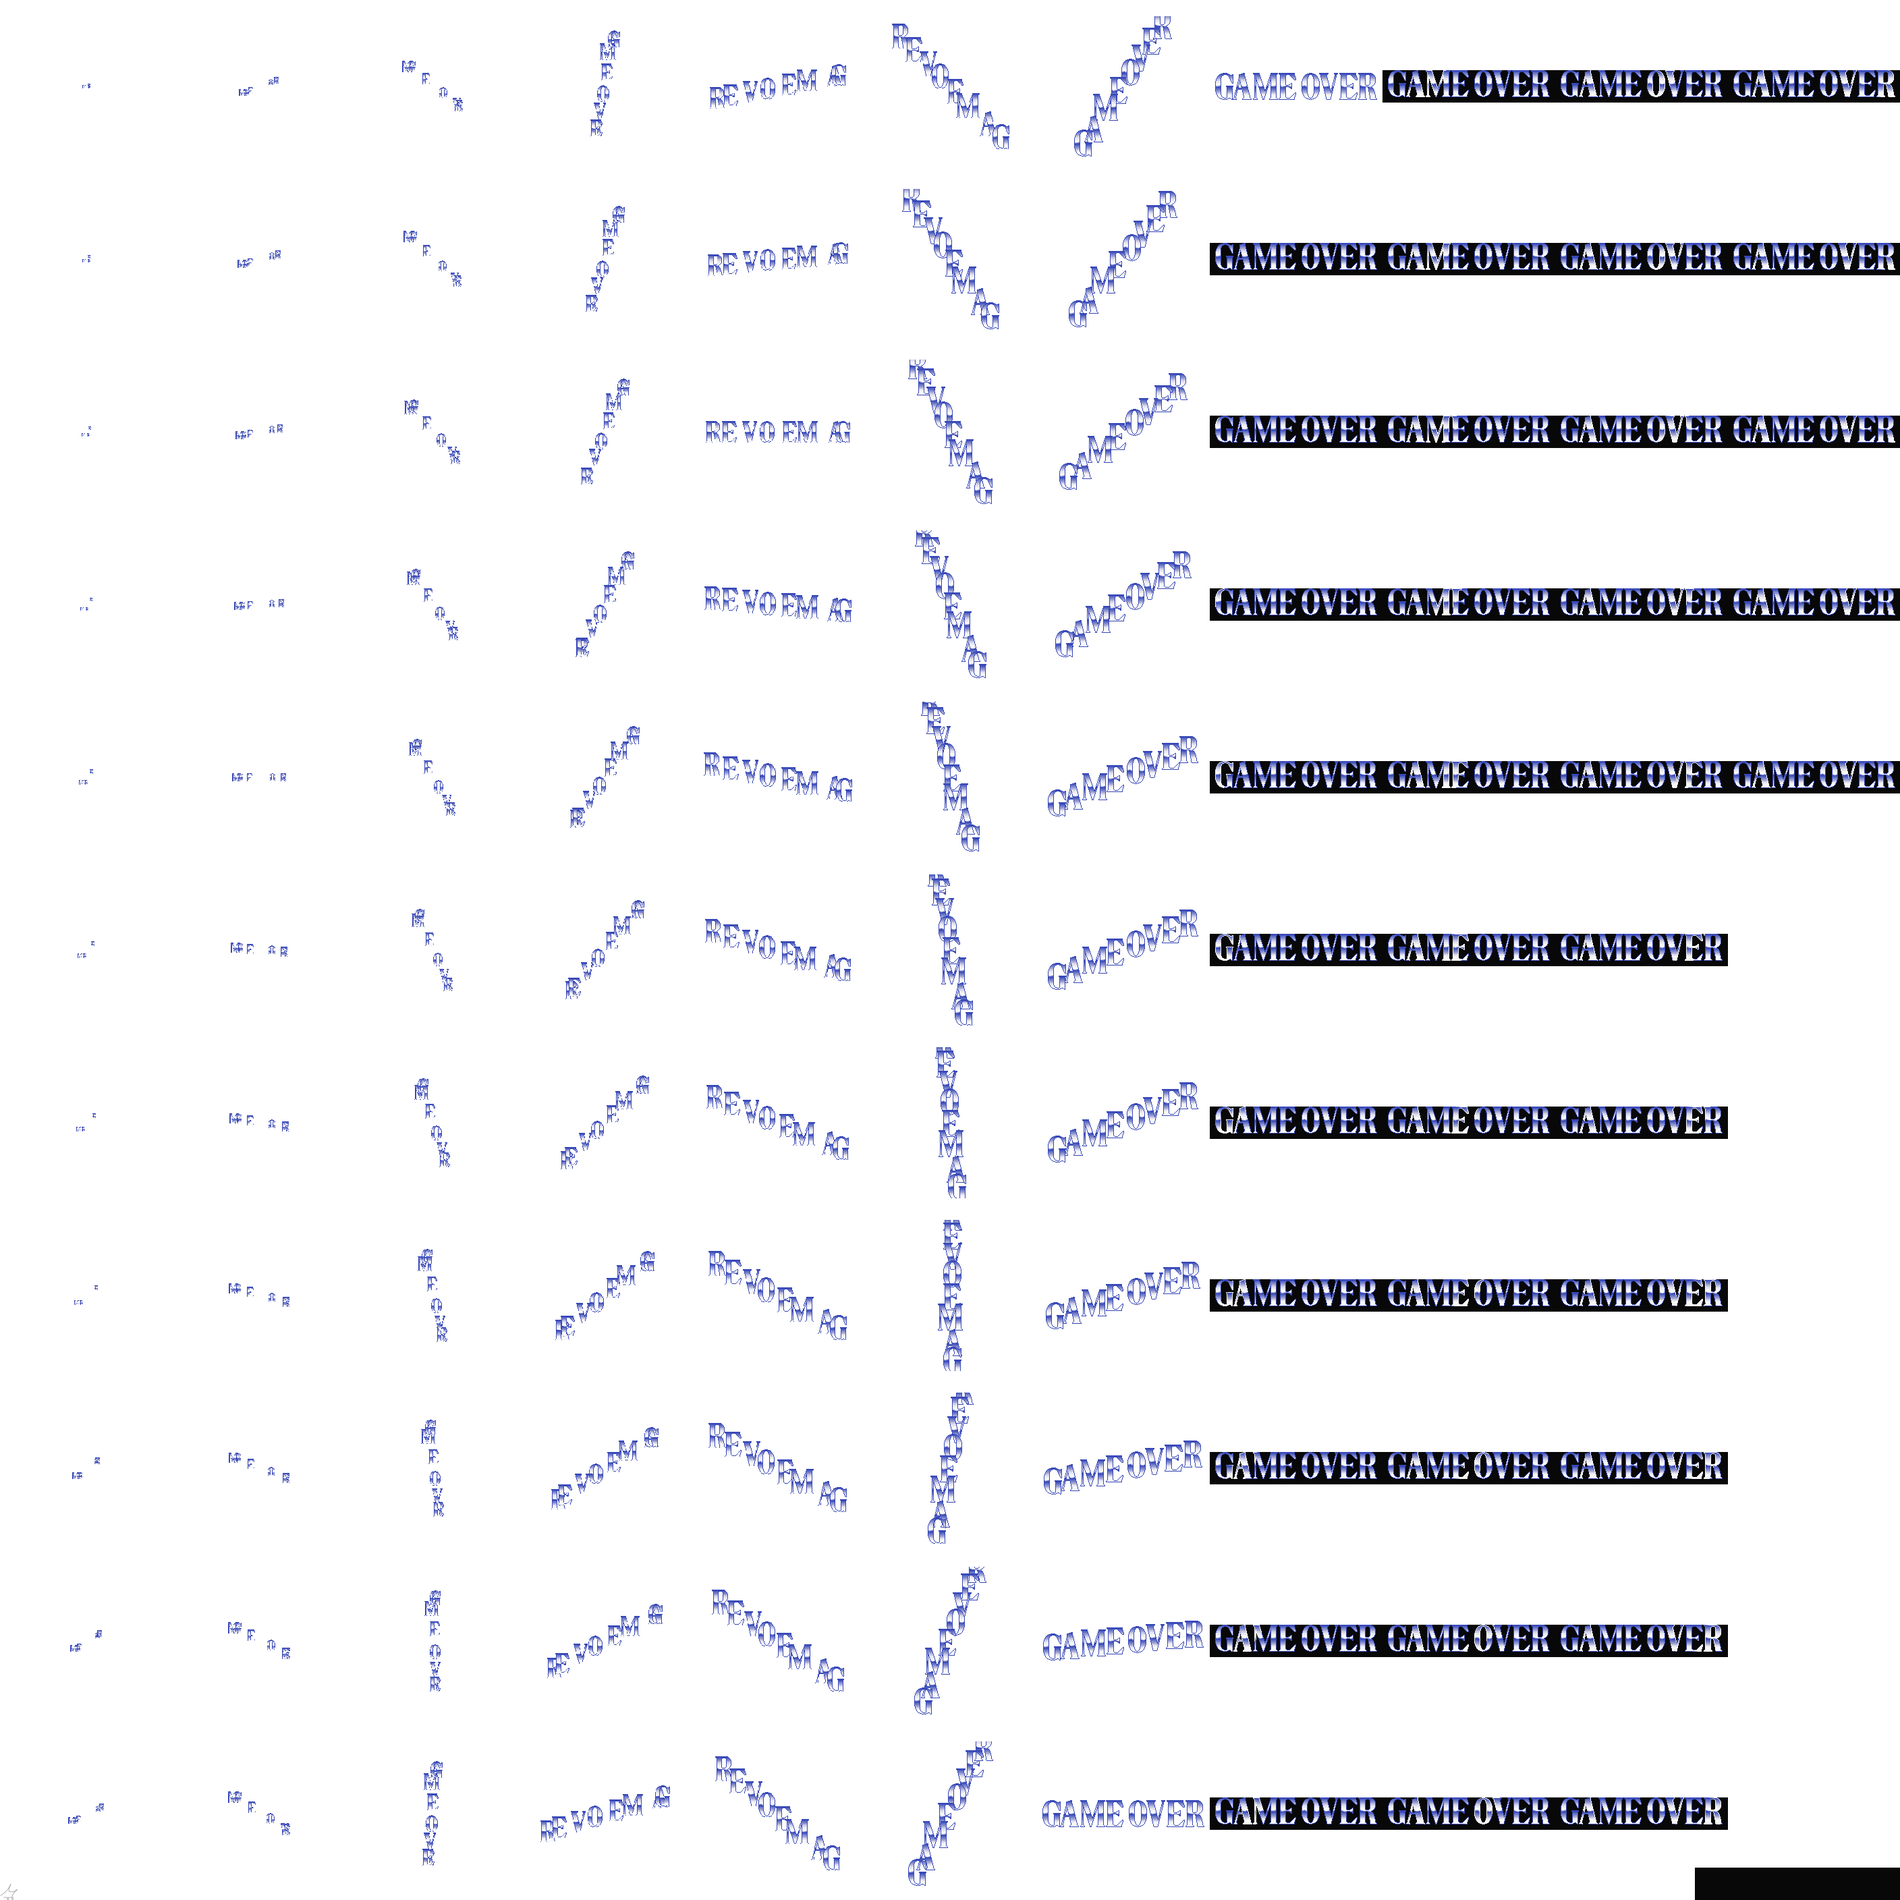
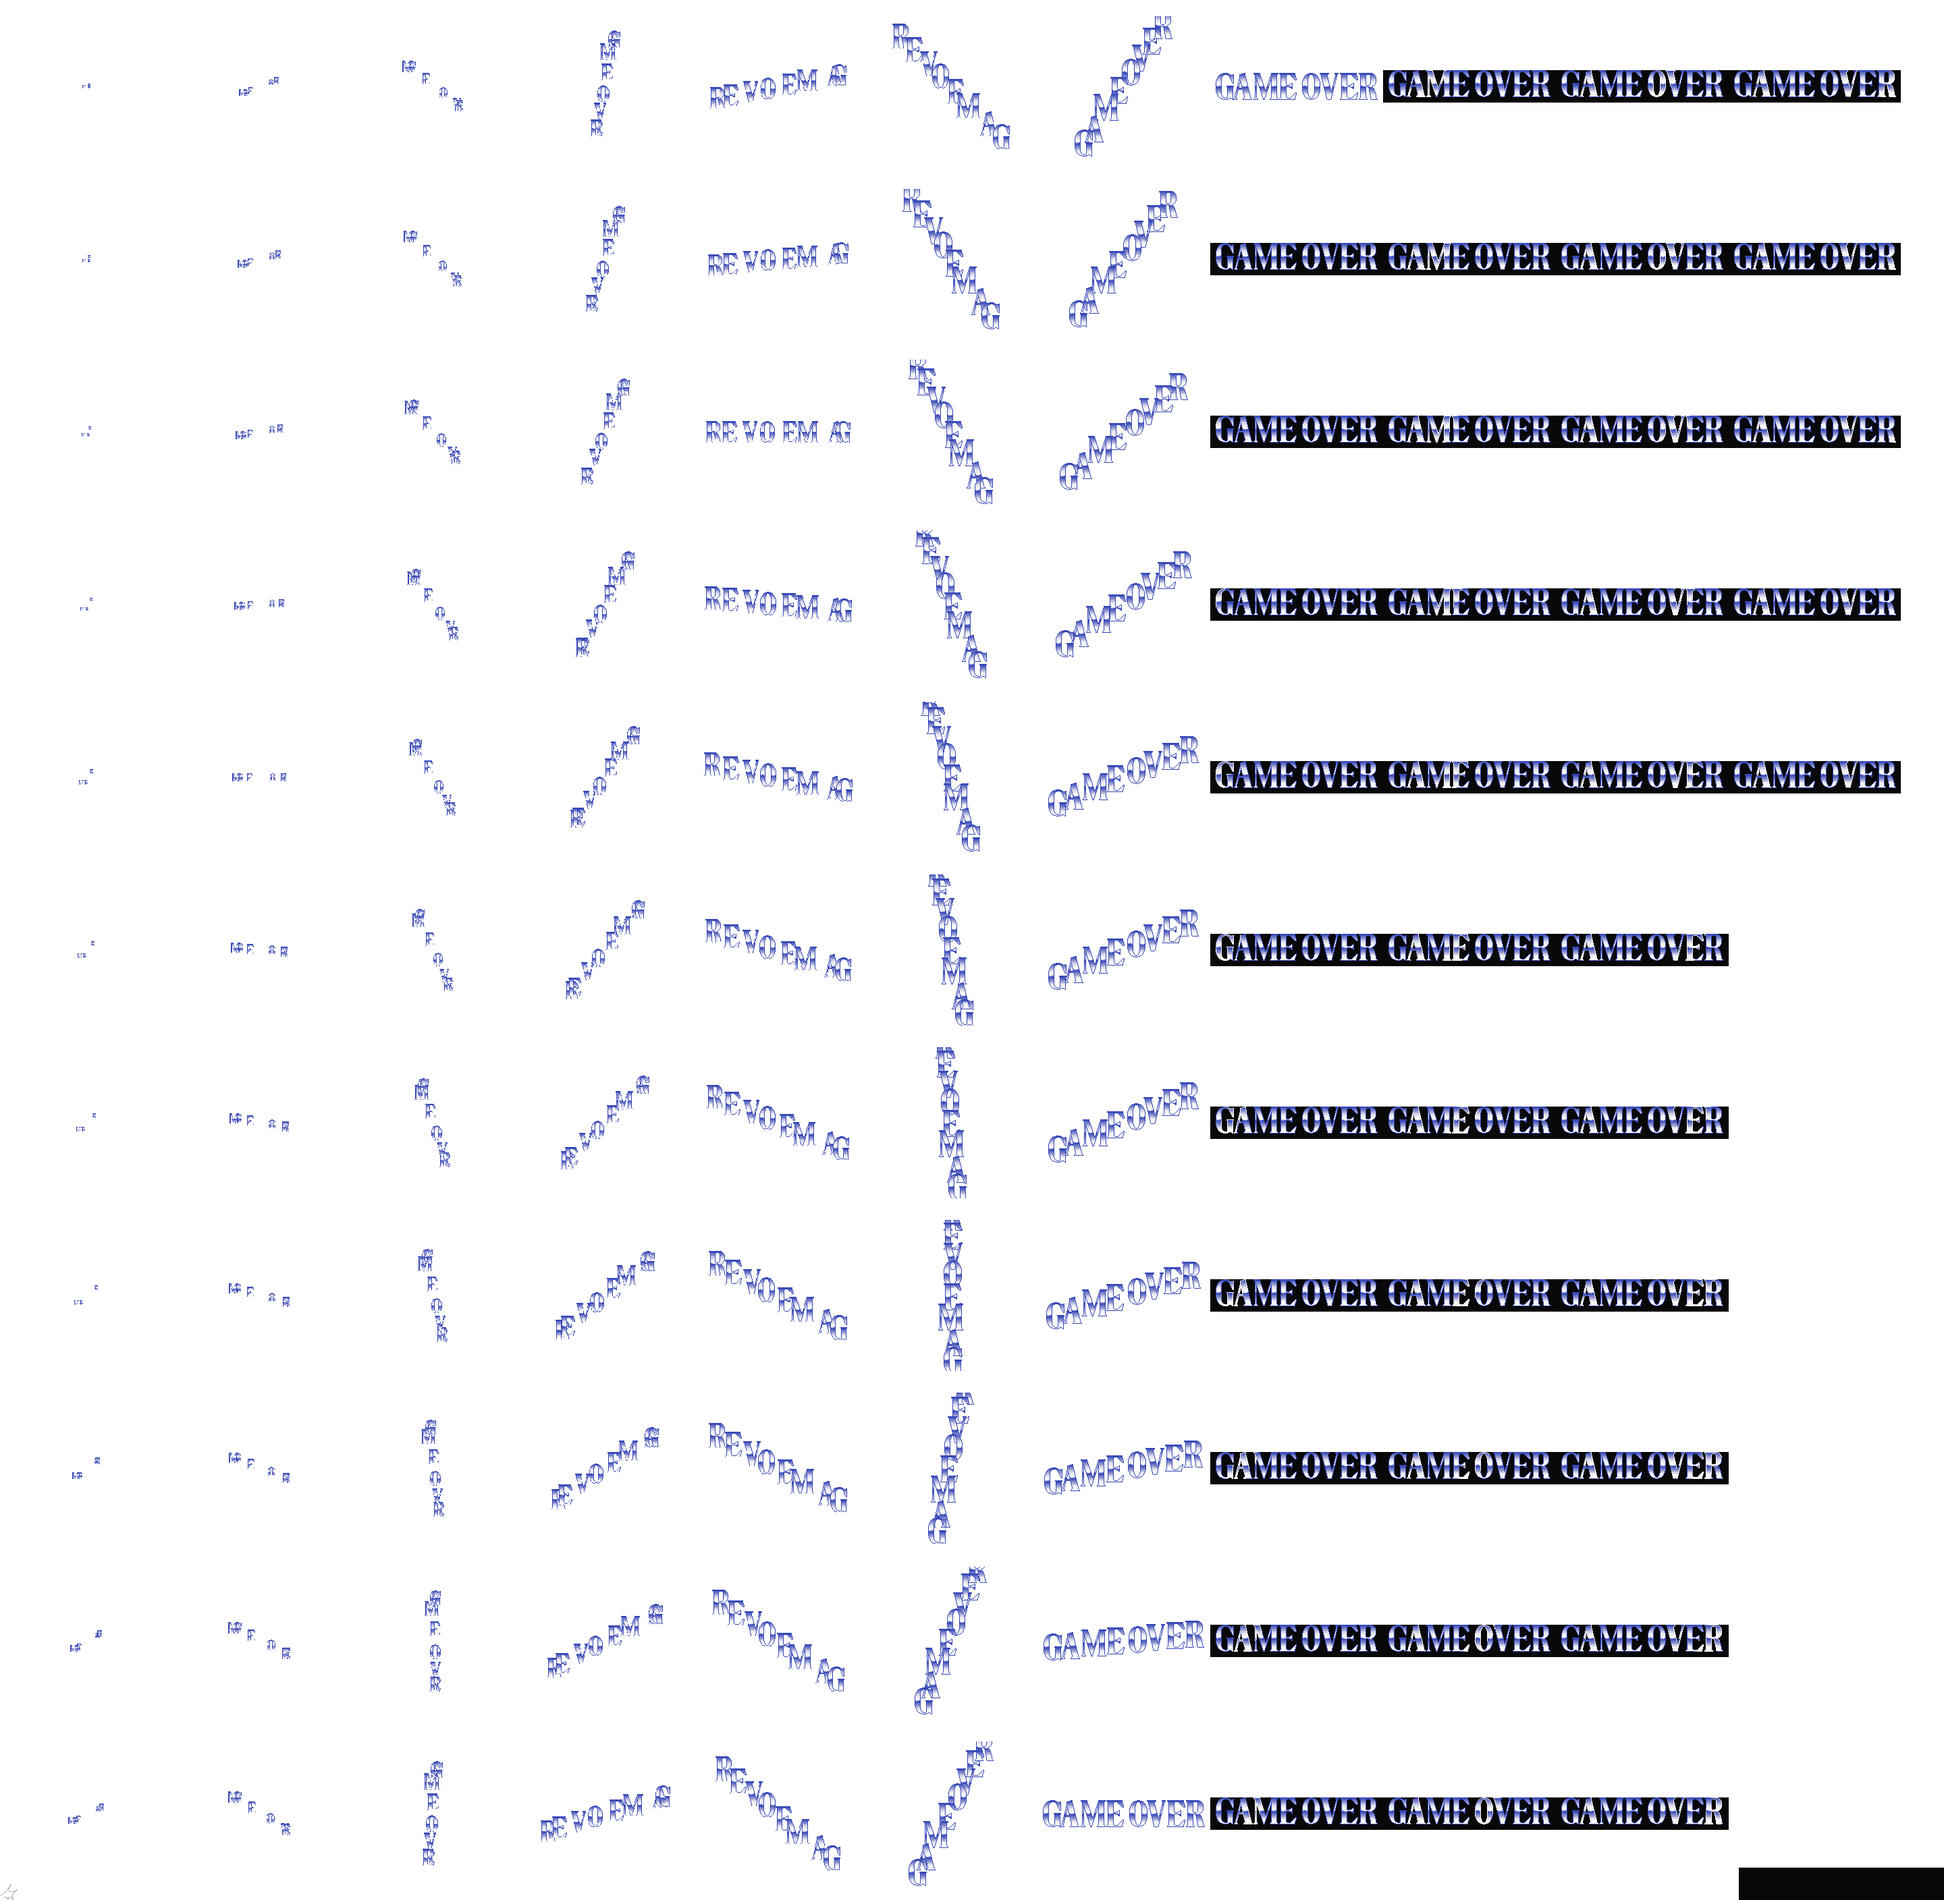
Game Over Visual Bug Fixed

diff --git a/SDL_AndroDunos/ModuleGameOver.cpp b/SDL_AndroDunos/ModuleGameOver.cpp
@@ -33,7 +33,7 @@ ModuleGameOver::ModuleGameOver()
 	game_over.speed = 0.9f;
 
 	//Grey_Square_GM
-	Grey_Square.x = 2512;
+	Grey_Square.x = 2576;
 	Grey_Square.y = 2768;
 	Grey_Square.w = SCREEN_WIDTH;
 	Grey_Square.h = 48;
@@ -93,6 +93,5 @@ update_status ModuleGameOver::Update()
 		Mix_PauseMusic();
 	}
 	
-
 	return UPDATE_CONTINUE;
 }
